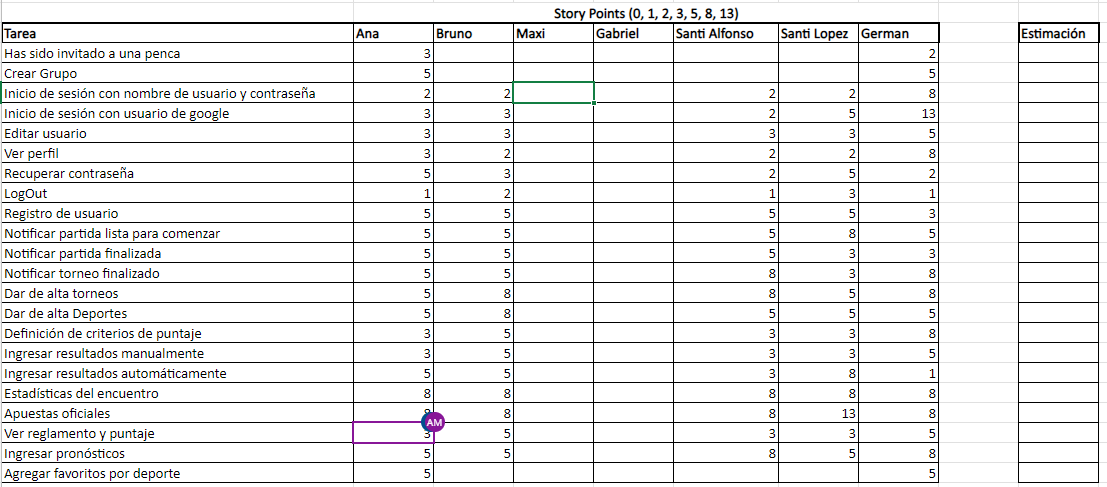
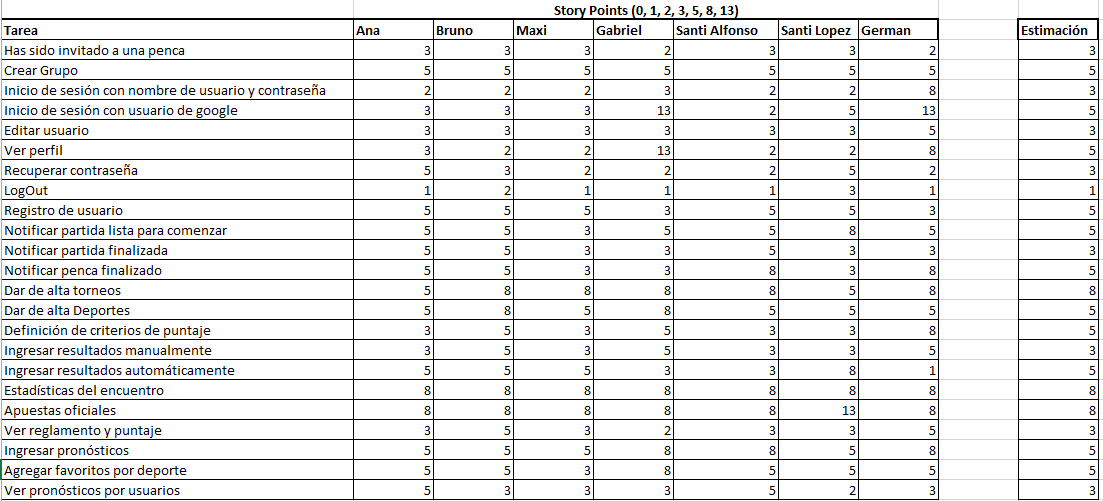
feat(it4-planning): uploading planning info

Changed region(s): [[0.0, 0.0, 1.0, 1.0]]

diff --git a/iteración-4/Iteracion4-Sprint-Planning.md b/iteración-4/Iteracion4-Sprint-Planning.md
@@ -2,11 +2,11 @@
 
 ### Cita
 
-Realizada el 18/5/2024
+Realizada el 1/6/2024
 
-![Sprint planning date](img/iteracion3/iteracion3-sprint-planning.PNG) 
+![Sprint planning date](img/iteracion4/planning/iteracion4-sprint-planning-cita.PNG) 
 
-![Sprint planning date](img/iteracion3/iteracion3-sprint-planning-asistencia.PNG) 
+![Sprint planning date](img/iteracion4/planning/iteracion4-sprint-planning-asistencia.PNG) 
 
 ## Agenda
 
@@ -24,45 +24,50 @@ Realizada el 18/5/2024
 
 ### Capacidad del equipo
 
-Se establece que el equipo dedicará el doble de capacidad que lo requerido (5hs/persona) en este sprint para poder quedar libres o con una dedicación mínima para el siguiente Sprint.
-O sea que se toma una **capacidad mínima de 10hs/persona**.
+Como no se pudo dedicar todas las horas que se planificó en el Sprint anterior, se tiene que dedicar algo de tiempo en este sprint a terminar algunas US que quedaron, además de a las nuevas US que surgen como mejoras a partir de las reviews con usuarios.
+También hay que dedicar tiempo a la preparación de la documentación, video y presentación final.
+O sea que se toma una **capacidad de 5hs/persona/semana** en promedio, pero dado que parte de este tiempo se utilizará para el informe final, video, y presentación, quedará solo una parte para User Stories.
 
 ### Velocity de sprints anteriores
 
-En el sprint 2 se completaron 50 Story Points.
-Como fué el único que realizado, mejor, peor y caso promedio corresponden a ese valor.
+Tenemos los siguientes datos:
+- Sprint 2 con 50 puntos. Peor caso.
+- Sprint 3 con 115 puntos. Mejor caso.
+- Promedio: 82,5 puntos/sprint
 
-![Sprint2 Burndown](img/iteracion3/burndown-sprint2.PNG) 
+También se puede ver el progreso de la productividad del equipo.
+Podemos ver que se realizaron 115 Story Points en comparación con los 50 del sprint anterior.
+
+![Sprint3 velocity](img/iteracion4/planning/iteracion3-sprint-velocity.PNG)
+
+Se incluye la vista de la evolución de la cantidad de work items realizados a lo largo del tiempo como referencia adicional de productividad.
+
+![Sprint3 items productivity](img/iteracion4/planning/iteracion4-sprint-productivity.PNG)
 
 ### Objetivos de la iteración
-- Implementar las User Stories que no se pudieron finalizar en el Sprint 2, especialmente las que agregan un valor diferencial a la APP y las que quedaron relacionadas con la creacion y configuracion de pencas.
-- Implementar el resto de las User Story que están relacionadas a las notificaciones, administración de la aplicación y la gestion del perfil de usuarios. Esto para poder tener el feedback de usuarios en el Sprint Review ya con todas las User Story implementadas.
-- Tratar de no dejar tareas para el ultimo sprint de forma de quedar libres para las otras materias, puesto que la capacidad del equipo en ese Sprint será casi nula.
+
+- Implementar las User Stories que no se pudieron finalizar en el Sprint 3, especialmente las sugerencias de los usuarios que agregan un valor diferencial a la APP y que es viable hacer dentro de las otras actividades programadas para este sprint como ser la elaboración de la documentación, e informes, video y presentación.
+- Tener un review final con usuarios, especialmente con aquellos que hicieron sugerencias de mejora, que se decidan incluir en el sprint.
 
 ### User Stories seleccionadas para incluir en el Sprint
 
-Dado que en este Sprint se deben terminar todas las User Stories restantes, se agregan todas las que quedaban en el Backlog general.
+Para este Sprint se considera lo que no se pudo terminar del sprint 3 y también las sugerencias recibidas en las User Reviews.
 
-Se ajustan las prioridades de las User Stories según el valor que aportan.
+Se ajustan las prioridades de las User Stories según el valor que aportan en conjunto con el Product Owner.
 
-Esto abarca las siguientes:
-
-![Sprint Backlog](img/iteracion3/iteracion3-sprint-backlog.PNG) 
+Se estiman las User Stories nuevas (las que provienen sugerencias de usuarios), y se seleccionan las siguientes para agregar al Sprint Backlog.
 
 La técnica de estimación utilizada fué la de Story Points utilizando números de Fibnoacci.
 
+![Sprint Backlog](img/iteracion4/planning/iteracion4-sprint-backlog.PNG) 
+
 Se incluye la planilla con las estimaciones del equipo y cuales fueron las finalmente consensuadas.
 
-![Estimacion de User Stories en story points](img/iteracion3/USEstimations.PNG)
+![Estimacion de User Stories en story points](img/iteracion4/planning/iteracion4-sprint-backlog-estimations.PNG)
+
 
 ### Sprint backlog final
 
-Se incluyen capturas de las Task y User Stories que quedaron para el Sprint
+Luego de hacer el breakdown en tareas de cada User Story y estimarlas, se incluyen la captura de las Task y User Stories que quedaron para el Sprint, una vez asignadas.
 
-![Tasks 1](img/iteracion3/iteracion3-sprint-backlog-tasks-1.PNG)
-
-![Tasks 2](img/iteracion3/iteracion3-sprint-backlog-tasks-2.PNG)
-
-![Tasks 3](img/iteracion3/iteracion3-sprint-backlog-tasks-3.PNG)
-
-![Tasks 4](img/iteracion3/iteracion3-sprint-backlog-tasks-4.PNG)
+![Tasks sprint 4](img/iteracion4/planning/iteracion4-sprint-backlog-tasks.PNG)

diff --git a/iteración-4/Iteracion4-Sprint-Review.md b/iteración-4/Iteracion4-Sprint-Review.md
@@ -2,15 +2,15 @@
 
 ### Cita
 
-![Cita](img/iteracion3/iteracion3-sprint-review-asistencia.PNG)
+![Cita](img/iteracion4/iteracion4-sprint-review-asistencia.PNG)
 
 ## Pruebas con usuarios finales
 
-Para validar los prototipos diseñados y buscar oportunidades de mejora, llevamos a cabo una serie de pruebas de usabilidad con nuestra aplicación. En estas pruebas, invitamos a un grupo de posibles usuarios finales a interactuar con la aplicación, permitiéndoles usar y navegar por todas sus funcionalidades.
+Para validar los prototipos diseñados y buscar oportunidades de mejora, llevamos a cabo una serie de pruebas de usabilidad con el prototipo. En estas pruebas, invitamos a un grupo de posibles usuarios finales a interactuar con la aplicación, permitiéndoles usar y navegar por todas sus funcionalidades.
 
 Durante las sesiones de prueba, los usuarios pudieron explorar cada característica y opción disponible en la aplicación, lo que nos proporcionó una visión realista de cómo se comportarían en un entorno cotidiano. Posteriormente, les realizamos una breve encuesta con el objetivo de comprender sus percepciones generales sobre la aplicación. Queríamos saber qué les parecía en términos generales, qué aspectos sentían que se podían mejorar, y qué funcionalidades consideraban que faltaban y que la aplicación debería incorporar en el futuro.
 
-El resultado de estas pruebas fue altamente satisfactorio. La gran mayoría de los participantes coincidió en que la aplicación era muy intuitiva y fácil de usar. Este feedback positivo nos reafirma que estamos en el camino correcto en cuanto al diseño y la experiencia de usuario. No obstante, los usuarios también señalaron varios puntos que no habíamos considerado inicialmente. Estos comentarios fueron invaluables, ya que nos ofrecen una perspectiva fresca y nos ayudan a identificar áreas de mejora que podemos implementar en futuras versiones de la aplicación.
+Los usuarios mantuvieron su percepcion positiva sobre la aplicación, y valoraron las mejoras introducidas. Los usuarios que hicieron sugerencias de mejora además dieron su devolución sobre la implementación de las mismas.
 
 ### Contenido generado con usuarios y análisis sobre el mismo
 

diff --git a/iteración-4/README.md b/iteración-4/README.md
@@ -14,14 +14,30 @@
 
 _[Definición del marco de trabajo SCRUM con los acuerdos principales del equipo y evidencia de sus prácticas aplicadas en la iteración. Deben estar los roles definidos para cada integrante del equipo y la justificación de la adaptación del marco de trabajo al contexto de la iteración.]_
 
+Se define el marco de trabajo a utilizar, asi como las adaptaciones al contexto del proyecto. Ver el siguiente enlace.
+
+[Marco de trabajo y adaptaciones](MarcoDeTrabajoYAdaptaciones.md)
+
+### Calendario de eventos y adaptación
+
+Se define el calendario de eventos correspondientes al marco de trabajo, su adaptación al proyecto, asi como su justificación.
+
+[Calendario de eventos](CalendarioDeEventos.md)
+
+### Descripción de los roles y responsabilidades
+
+Se detallan a continuación, los roles y las responsabilidades en el marco de Scrum, los acuerdos y adaptaciones al proyecto. También los integrantes del equipo de proyecto, y su asignación a dichos roles.
+
+[Definición de roles y responsabilidades](RolesYResponsabilidades.md)
+
 ### Artefactos principales
 
-- Justificación de las adaptaciones principales del marco de trabajo al contexto del proyecto.
-- Definición del calendario de eventos con justificación de su adaptación al contexto de la iteración.
-- Roles y responsabilidades definidos para cada integrante del equipo.
-- Políticas de trabajo del equipo:
-  - Definition of Done.
-  - Definition of Ready.
+- Justificación de las adaptaciones principales del marco de trabajo al contexto del proyecto. ([link](MarcoDeTrabajoYAdaptaciones.md))
+- Definición del calendario de eventos con justificación de su adaptación al contexto de la iteración. ([link](CalendarioDeEventos.md))
+- Roles y responsabilidades definidos para cada integrante del equipo. ([link](RolesYResponsabilidades.md))
+- Políticas de trabajo del equipo ([link](MarcoDeTrabajoYAdaptaciones.md)):
+  - Definition of Done. ([link](MarcoDeTrabajoYAdaptaciones.md#Definition-of-Done))
+  - Definition of Ready. ([link](MarcoDeTrabajoYAdaptaciones.md#Definition-of-Ready))
 
 ## Planificación de la iteración
 

diff --git a/iteración-4/Iteracion4-Sprint-Retrospective.md b/iteración-4/Iteracion4-Sprint-Retrospective.md
@@ -1,6 +1,6 @@
 # Sprint Retrospective
 
-![Cita](img/iteracion3/iteracion3-sprint-retro-asistencia.PNG)
+![Cita](img/iteracion4/retro/iteracion3-sprint-retro-asistencia.PNG)
 
 En esta ocasion para la retrospective, utilizamos la herramienta metro retro con el template de "The Good, The Bad, and The Ugly".
 
@@ -8,13 +8,13 @@ En las imagenes a continuacion se pueden ver los 4 items: las cosas buenas, las 
 
 Tambien se puede acceder desde el siguiente [link](https://metroretro.io/BO0KOK1LZZW7).
 
-![Retro Bad](img/iteracion3/retro/retro-bad.PNG) 
+![Retro Bad](img/iteracion4/retro/retro-bad.PNG) 
 
-![Retro Good](img/iteracion3/retro/retro-good.PNG) 
+![Retro Good](img/iteracion4/retro/retro-good.PNG) 
 
-![Retro Ugly](img/iteracion3/retro/retro-ugly.PNG) 
+![Retro Ugly](img/iteracion4/retro/retro-ugly.PNG) 
 
-![Retro Treasure](img/iteracion3/retro/retro-treasure.PNG) 
+![Retro Treasure](img/iteracion4/retro/retro-treasure.PNG) 
 
-![Retro Action Items](img/iteracion3/retro/retro-ActionItems.PNG) 
+![Retro Action Items](img/iteracion4/retro/retro-ActionItems.PNG) 
 

diff --git a/iteración-4/Iteracion4-Daily-Scrum.md b/iteración-4/Iteracion4-Daily-Scrum.md
@@ -23,7 +23,7 @@ Temas tratados:
 
 Se observa el cumplimiento al final del sprint de la realizacion de todas las US planificadas.
 
-![Sprint3 Burndown chart](img/iteracion3/burndown-sprint3.PNG)
+![Sprint4 Burndown chart](img/iteracion4/seguimiento/BurndownChart.PNG)
 
 También se puede ver el progreso de la productividad del equipo.
 Si bien el gráfico de Azure hace un promedio con el primer Sprint donde no hubo trabajo en UserStories, podemos ver que se realizaron 115 Story Points en comparacion con los 50 del sprint anterior.
